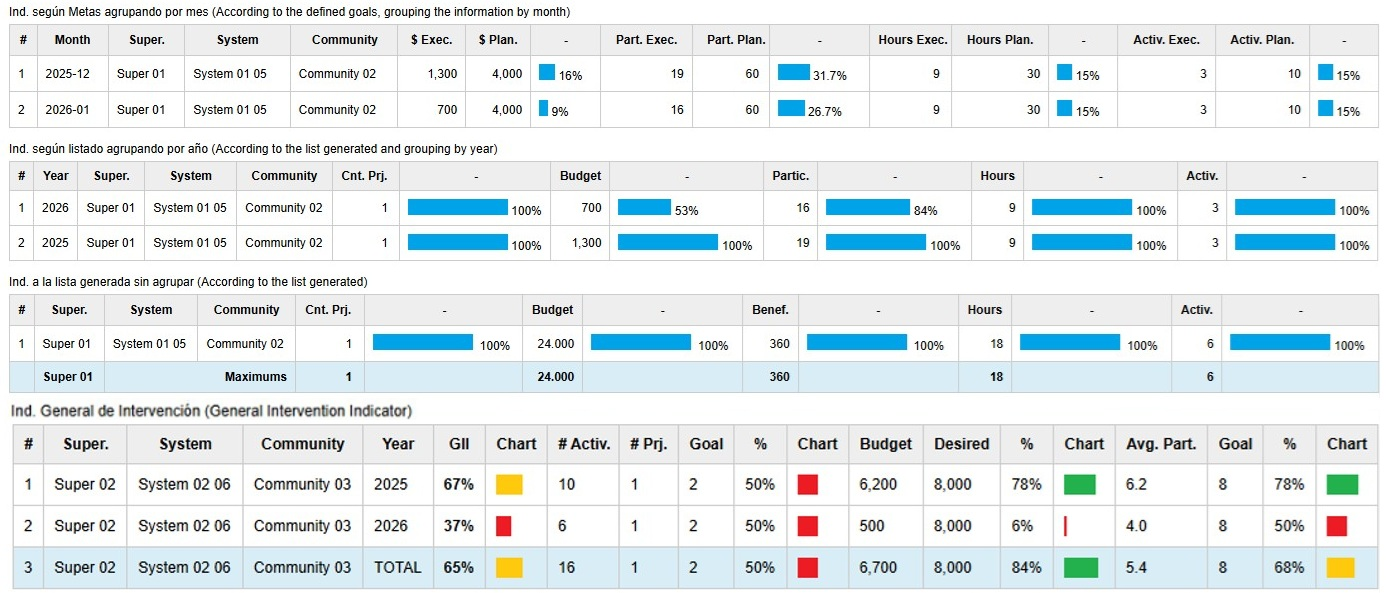
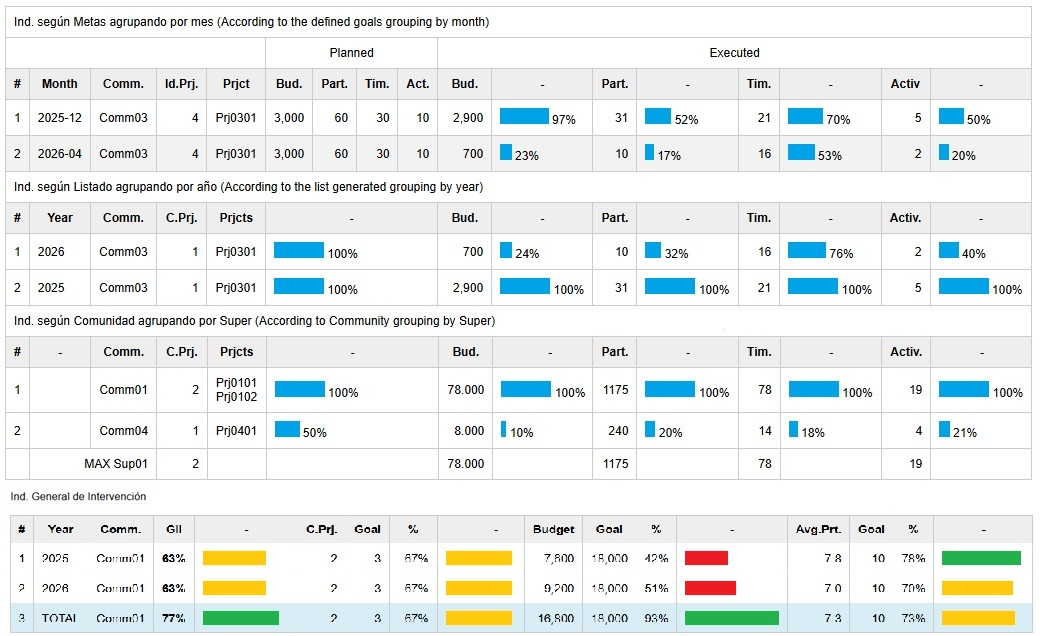
en Docs cambiar arquitectura y nuevas imagenes

diff --git a/docs/architecture.md b/docs/architecture.md
@@ -19,15 +19,18 @@ The following subsections describe the implemented indicators, including their s
 implemented following the Model–View–Controller (MVC) architecture, as shown to next, this figure presents an example of the files involved in the General 
 Intervention Indicator process. The steps are as follows:
 
-1. The user reaches the controller.
+i. The user sends a request, which is handled by the controller.
 
-2. The controller interacts with the model.
+ii. The controller validates the user session, invokes the required pages, and requests the corresponding data from the model.
 
-3. The controller selects a view.
+iii. The model executes the database query according to the filters received from the controller.
 
-4. The view generates the output using the data that the controller obtained from the model.
+iv. The model returns the resulting data to the view.
 
-![MVC](img/fig4_mvc.jpg)
+v. The view processes the data and generates the HTML indicator.
+
+vi. The controller presents the generated indicator to the user.
+
 
 All indicators are generated from data using the same set of filters, which can be applied by supersystem or system, by date range and page.
 